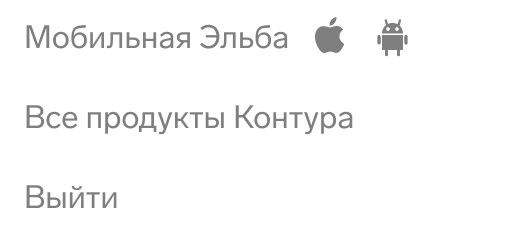
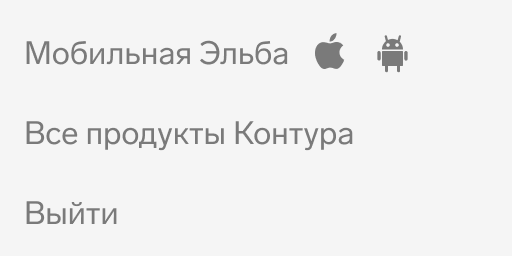
hide other and button

diff --git a/finish.html b/finish.html
@@ -34,7 +34,7 @@
     <img src="media/message.png" srcset="media/message@2x.png 2x" usemap="#image-map" class="message">
     
     <div class="footer" style="height: 452px;">
-        <img src="media/other.png" srcset="media/other@2x.png 2x" class="other">
+        <!-- <img src="media/other.png" srcset="media/other@2x.png 2x" class="other"> -->
         <div>
             <img src="media/help-finish.png" srcset="media/help-finish@2x.png 2x" class="help">
             <img src="media/help-dropdown.png" srcset="media/help-dropdown@2x.png 2x" class="dropdown">

diff --git a/tasks.html b/tasks.html
@@ -39,7 +39,7 @@
   <img src="media/04-tasks.png" srcset="media/04-tasks@2x.png 2x" usemap="#image-map" class="ui">
 
   <div class="footer">
-    <img src="media/other.png" srcset="media/other@2x.png 2x" class="other">
+   <!-- <img src="media/other.png" srcset="media/other@2x.png 2x" class="other"> -->
     <a href="finish.html"><img src="media/help.png" srcset="media/help@2x.png 2x" class="help"></a>
   </div>
 

diff --git a/settings.html b/settings.html
@@ -39,7 +39,7 @@
   <img src="media/02-settings.png" srcset="media/02-settings@2x.png 2x" usemap="#image-map" class="ui">
 
   <div class="footer">
-    <img src="media/other.png" srcset="media/other@2x.png 2x" class="other">
+    <!-- <img src="media/other.png" srcset="media/other@2x.png 2x" class="other"> -->
     <img src="media/help.png" srcset="media/help@2x.png 2x" class="help">
   </div>
 

diff --git a/payment.html b/payment.html
@@ -39,7 +39,7 @@
   <img src="media/03-payment.png" srcset="media/03-payment@2x.png 2x" usemap="#image-map" class="ui">
 
   <div class="footer">
-    <img src="media/other.png" srcset="media/other@2x.png 2x" class="other">
+    <!-- <img src="media/other.png" srcset="media/other@2x.png 2x" class="other"> -->
     <img src="media/help.png" srcset="media/help@2x.png 2x" class="help">
   </div>
 

diff --git a/main-tasks.html b/main-tasks.html
@@ -39,7 +39,7 @@
   <img src="media/01-index.png" srcset="media/01-index@2x.png 2x" usemap="#image-map" class="ui">
 
   <div class="footer">
-    <img src="media/other.png" srcset="media/other@2x.png 2x" class="other">
+    <!-- <img src="media/other.png" srcset="media/other@2x.png 2x" class="other"> -->
     <img src="media/help.png" srcset="media/help@2x.png 2x" class="help">
   </div>  
 

diff --git a/style.css b/style.css
@@ -41,7 +41,6 @@ body {
 
 .footer {
     width: 1280px;
-    height: 120px;
     position: fixed;
     margin-left: -640px;
     left: 50%;
@@ -60,7 +59,7 @@ body {
 
 .other {
     width: 256px;
-    height: 120px;
+    height: 128px;
     position: absolute;
     bottom: 0px;
     margin-left: 16px;
